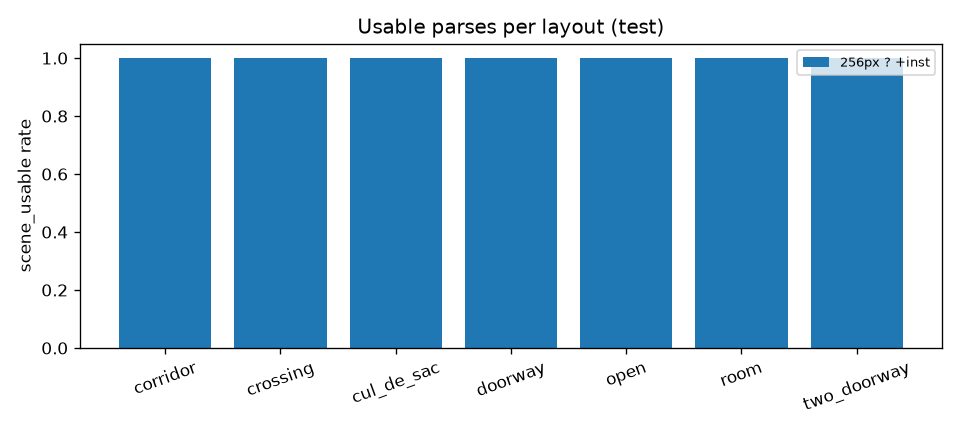
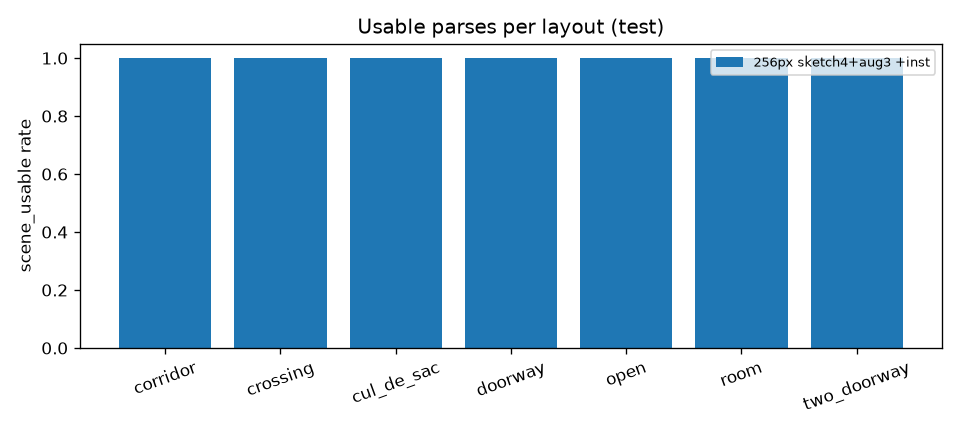
Re-aggregate sketch4 with per-layout summary

Changed region(s): [[0.7188, 0.0903, 0.9375, 0.1806]]

diff --git a/perception/results/sketch4/table_res_aug.md b/perception/results/sketch4/table_res_aug.md
@@ -4,12 +4,12 @@ Each cell: agent F1 · centre error (units) · heading error (deg) · scene_usab
 
 ## `test` — unet24x4+inst
 
-| resolution | ? |
-|---|---|
-| 256 | 1.000 · 0.11 · 1.0 · 1.00 (n=1) |
+| resolution | aug3 | sketch+aug3 | sketch4+aug3 |
+|---|---|---|---|
+| 256 |  |  | 1.000 · 0.11 · 1.0 · 1.00 (n=1) |
 
 ## `test_aug3` — unet24x4+inst
 
-| resolution | ? |
-|---|---|
-| 256 | 1.000 · 0.11 · 0.9 · 1.00 (n=1) |
+| resolution | aug3 | sketch+aug3 | sketch4+aug3 |
+|---|---|---|---|
+| 256 |  |  | 1.000 · 0.11 · 0.9 · 1.00 (n=1) |

diff --git a/perception/results/sketch4/table_arch.md b/perception/results/sketch4/table_arch.md
@@ -4,4 +4,4 @@ On `test`, best augmentation per cell by agent F1; mean ± std over seeds.
 
 | resolution | variant | aug | F1 | cerr | head° | usable | n |
 |---|---|---|---|---|---|---|---|
-| 256 | unet24x4 + inst | ? | 1.000 | 0.11 | 1.0 | 1.00 | 1 |
+| 256 | unet24x4 + inst | sketch4+aug3 | 1.000 | 0.11 | 1.0 | 1.00 | 1 |
